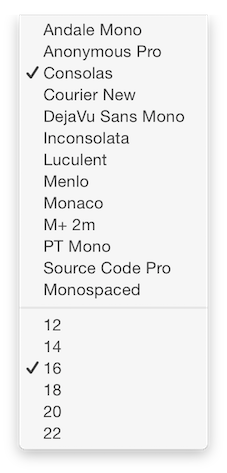
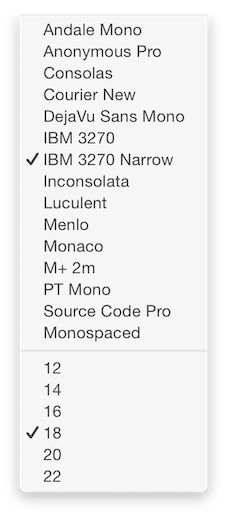
new fonts

diff --git a/src/com/bytezone/dm3270/application/Console.java b/src/com/bytezone/dm3270/application/Console.java
@@ -49,8 +49,8 @@ public class Console extends Application
 {
   private static String[] preferredFontNames = { //
       "Andale Mono", "Anonymous Pro", "Consolas", "Courier New", "DejaVu Sans Mono",
-          "Inconsolata", "Luculent", "Menlo", "Monaco", "M+ 2m", "PT Mono",
-          "Source Code Pro", "Monospaced" };
+          "IBM 3270", "IBM 3270 Narrow", "Inconsolata", "Luculent", "Menlo", "Monaco",
+          "M+ 2m", "PT Mono", "Source Code Pro", "Monospaced" };
 
   private static final int MAINFRAME_EMULATOR_PORT = 5555;
   private static final int EDIT_BUTTON_WIDTH = 50;

diff --git a/src/com/bytezone/dm3270/display/CharacterSize.java b/src/com/bytezone/dm3270/display/CharacterSize.java
@@ -32,6 +32,7 @@ public class CharacterSize
       ascent = (int) (fontMetrics.getMaxAscent () + 0.99);
       descent = (int) (fontMetrics.getMaxDescent () + 0.99);
       leading = height - ascent - descent;
+      System.out.println (this);
     }
   }
 
